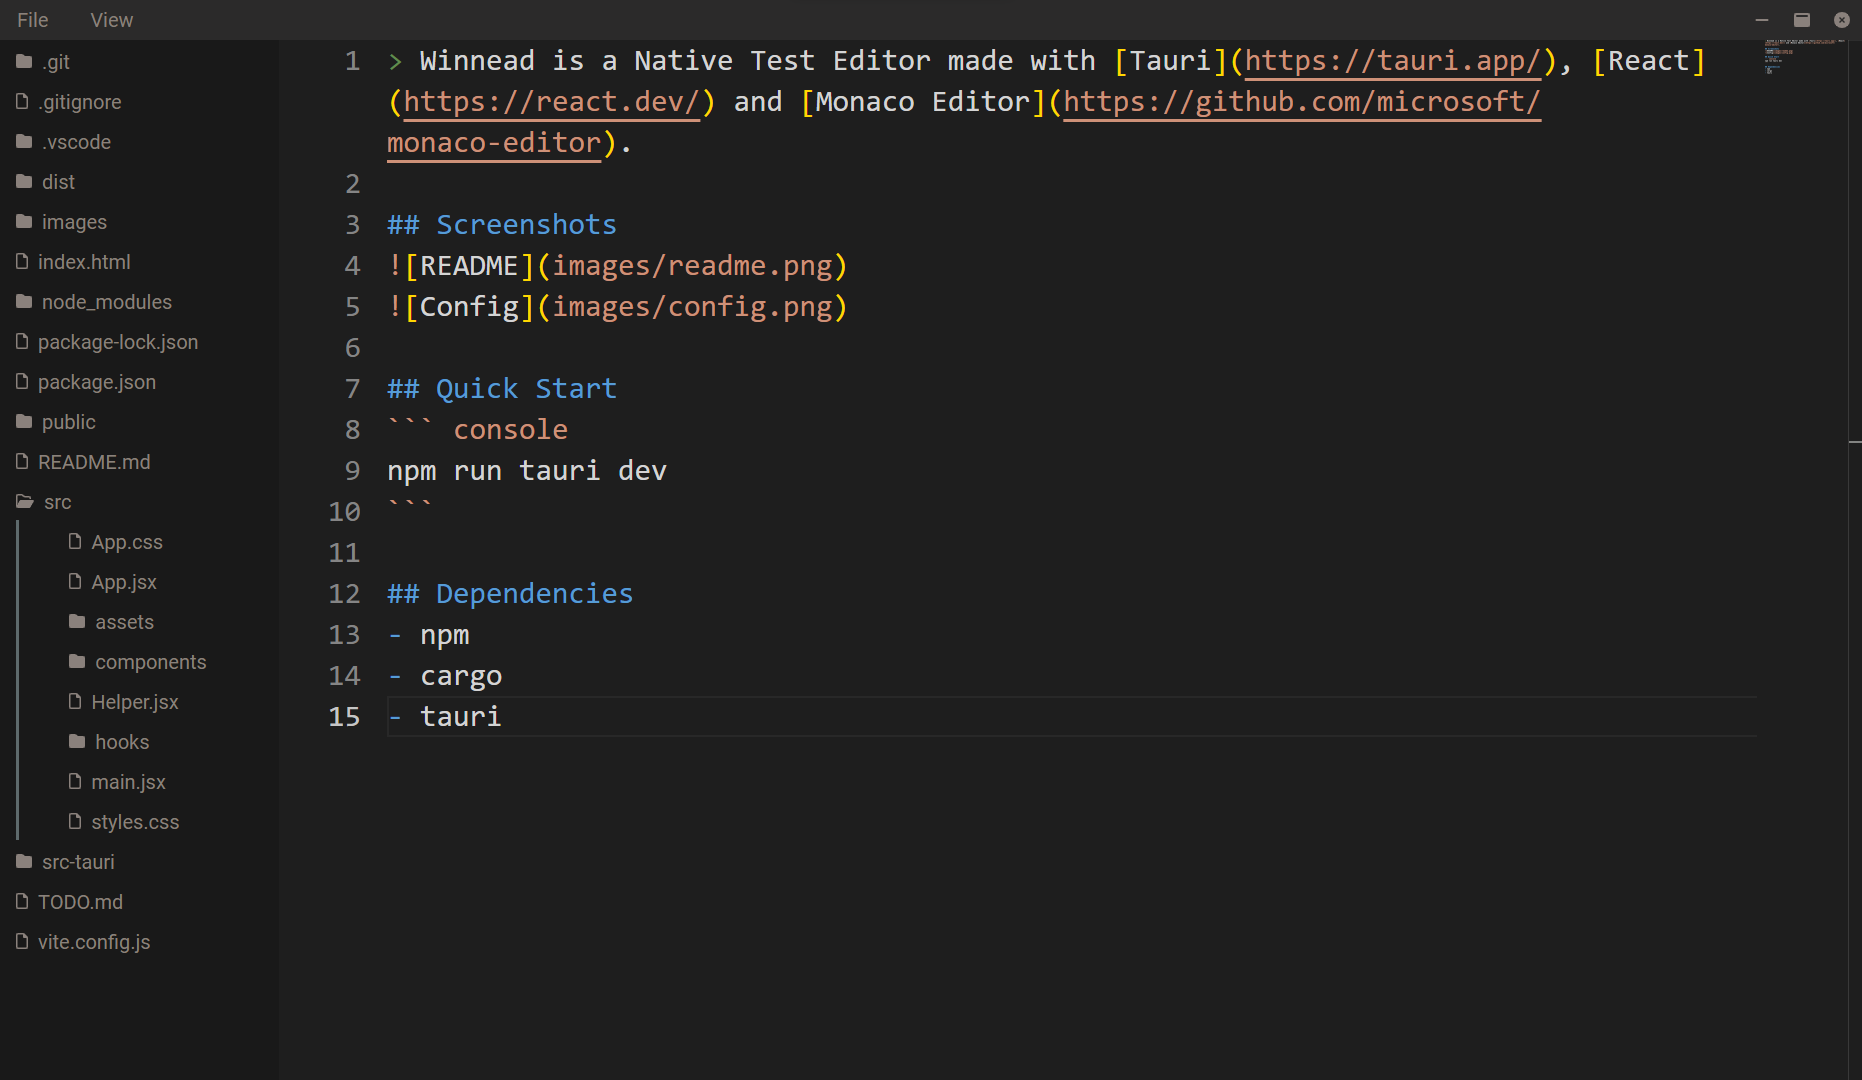
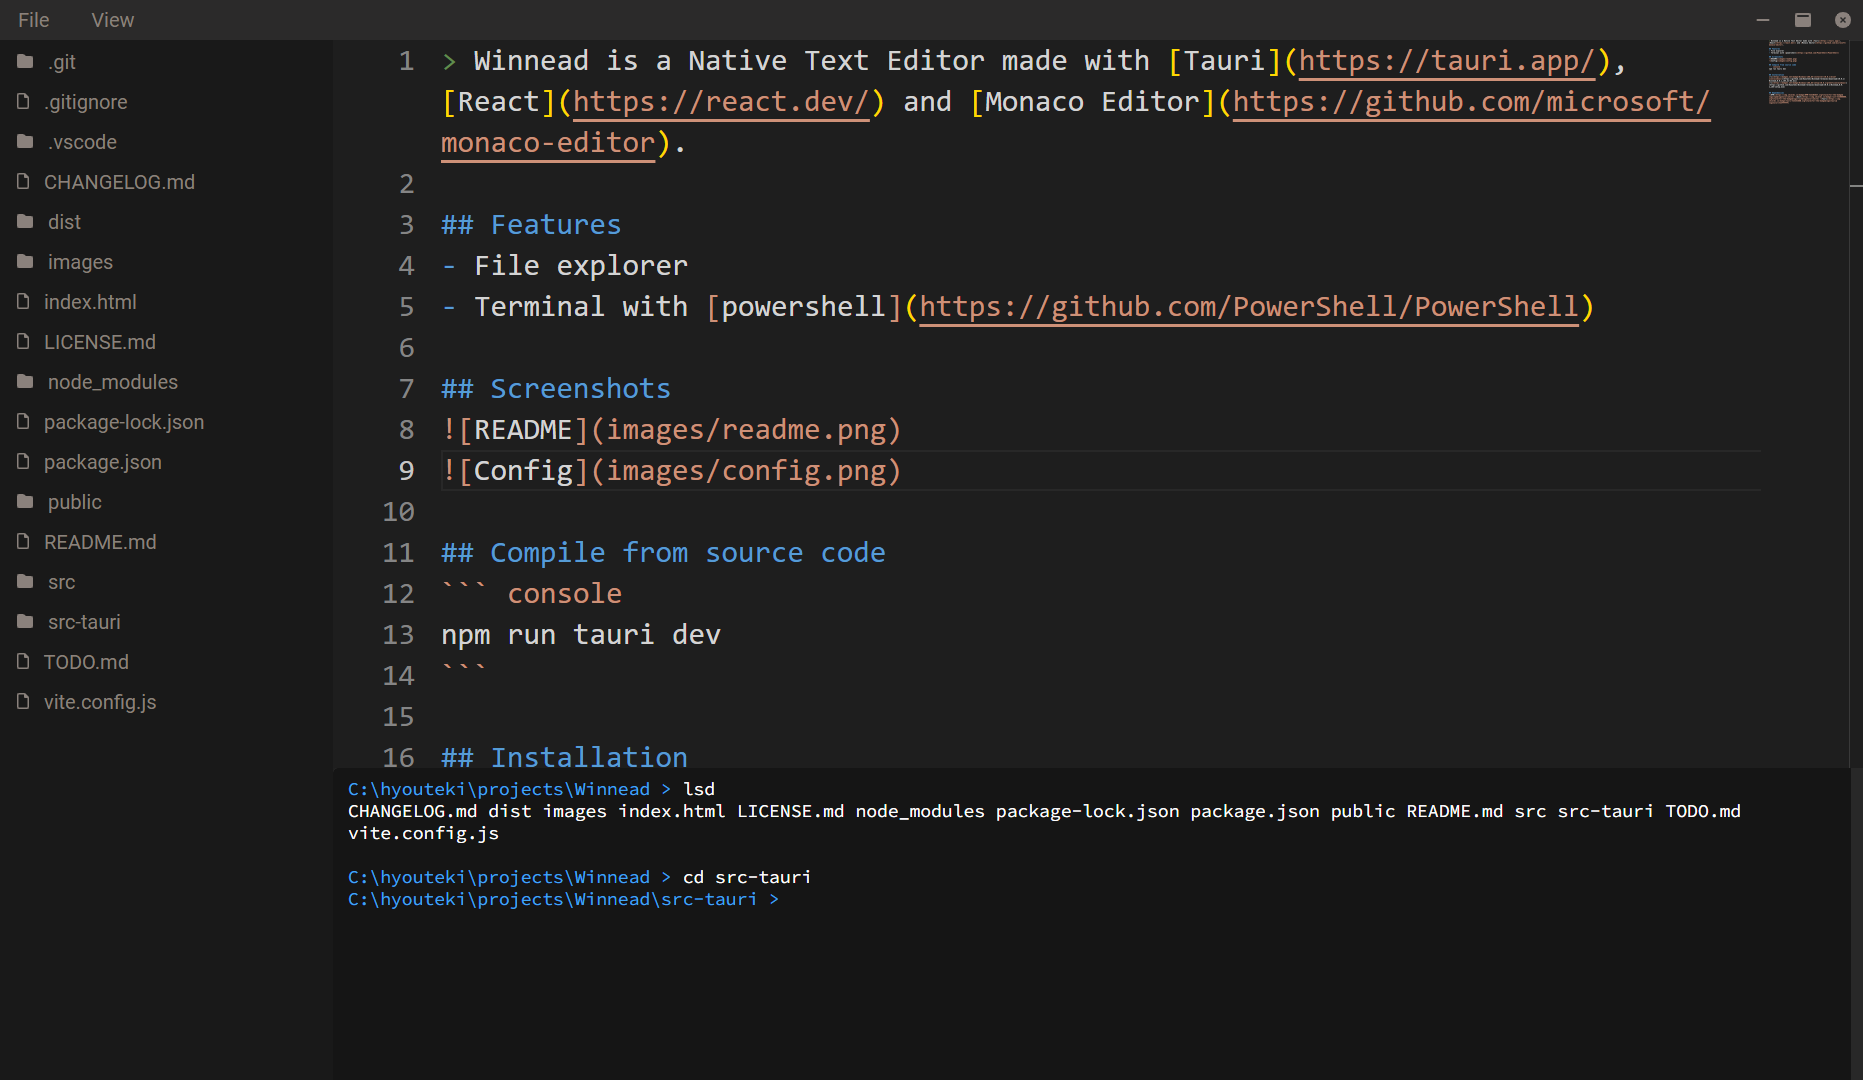
updated readme

diff --git a/README.md b/README.md
@@ -1,5 +1,9 @@
 > Winnead is a Native Text Editor made with [Tauri](https://tauri.app/), [React](https://react.dev/) and [Monaco Editor](https://github.com/microsoft/monaco-editor).
 
+## Features
+- File explorer
+- Terminal with [powershell](https://github.com/PowerShell/PowerShell) 
+
 ## Screenshots
 ![README](images/readme.png)
 ![Config](images/config.png)
